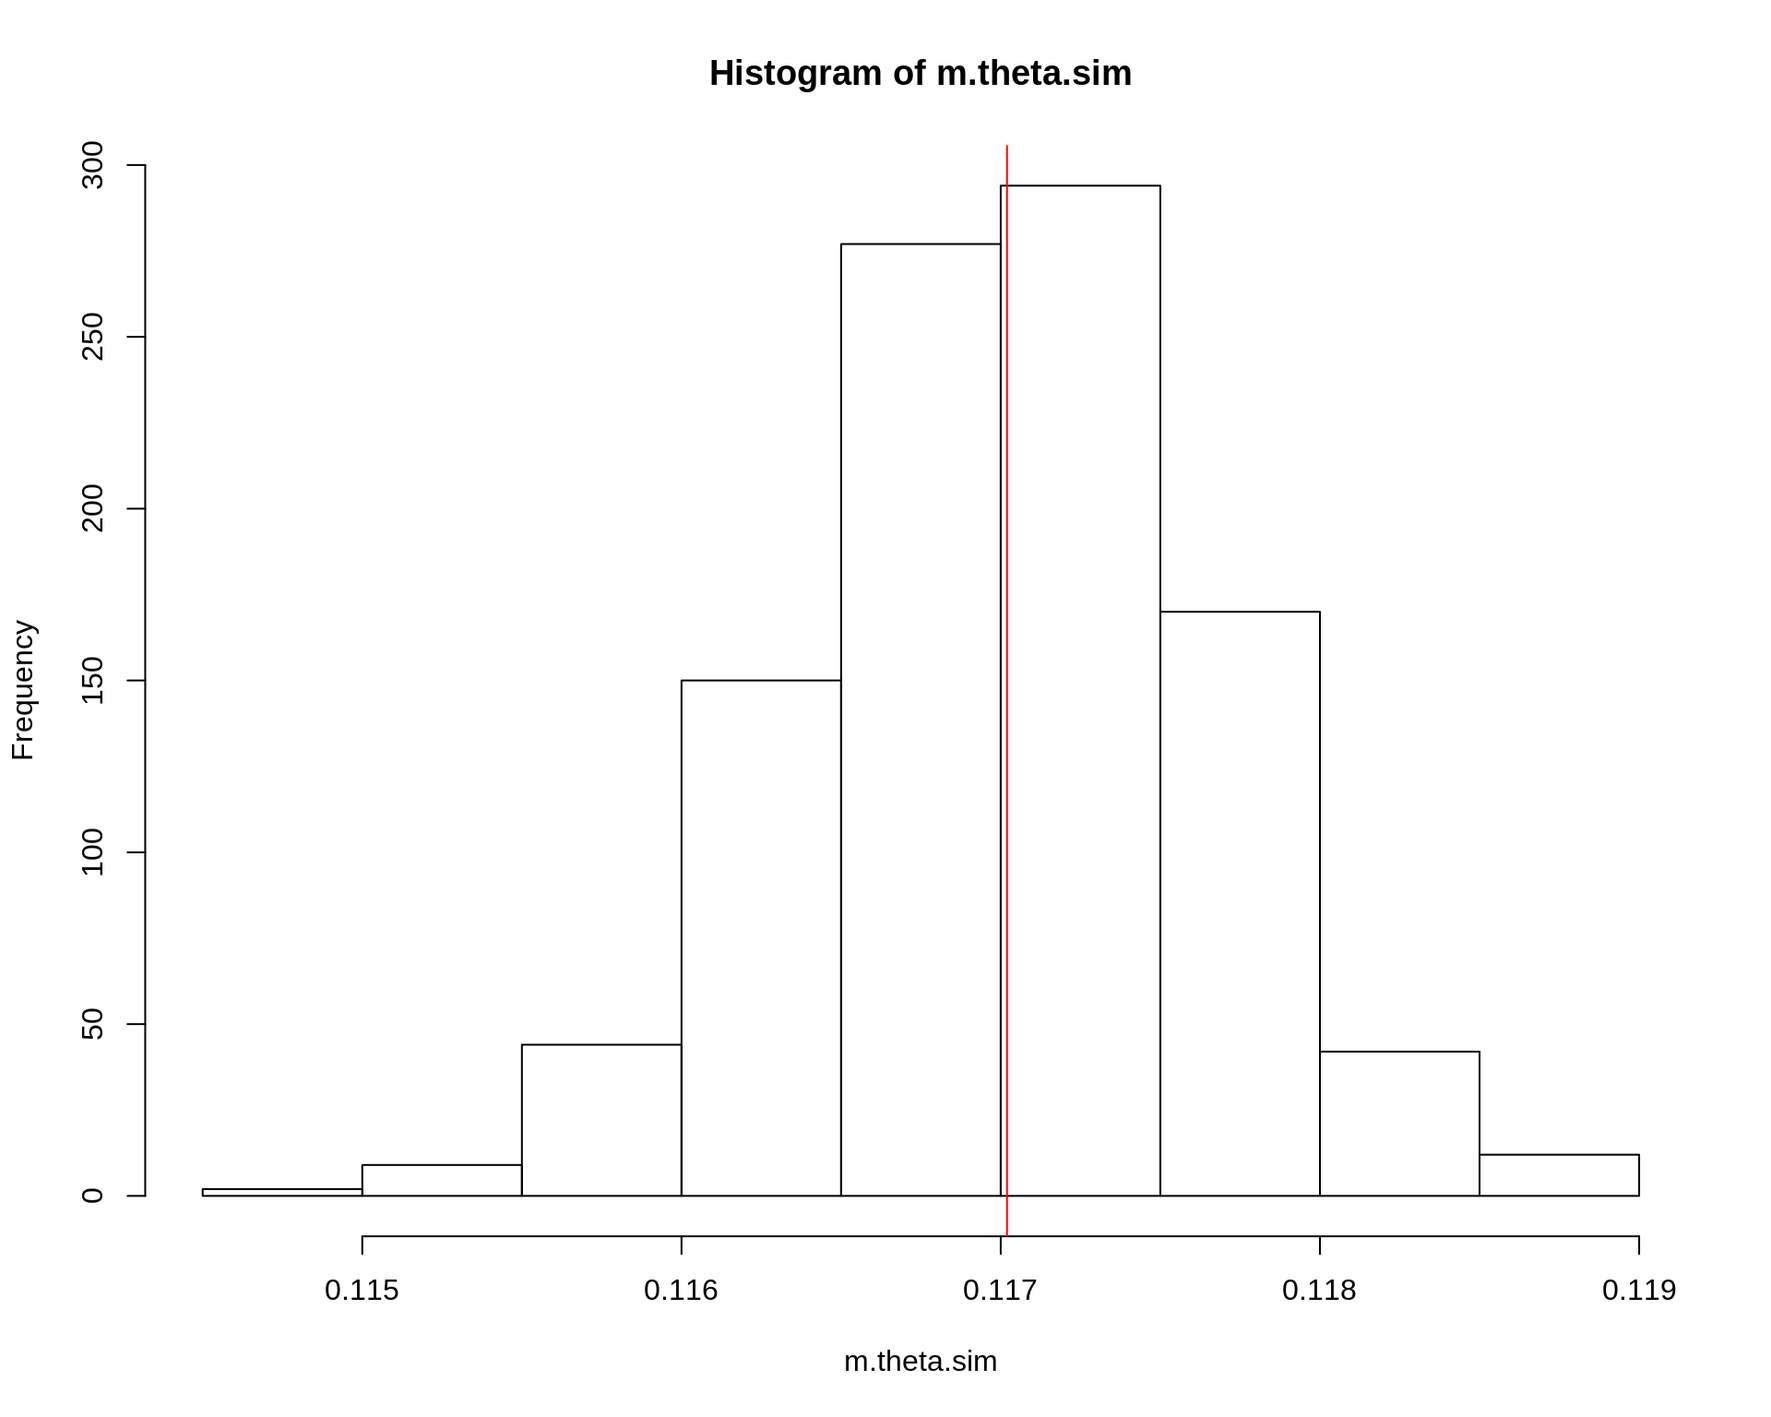
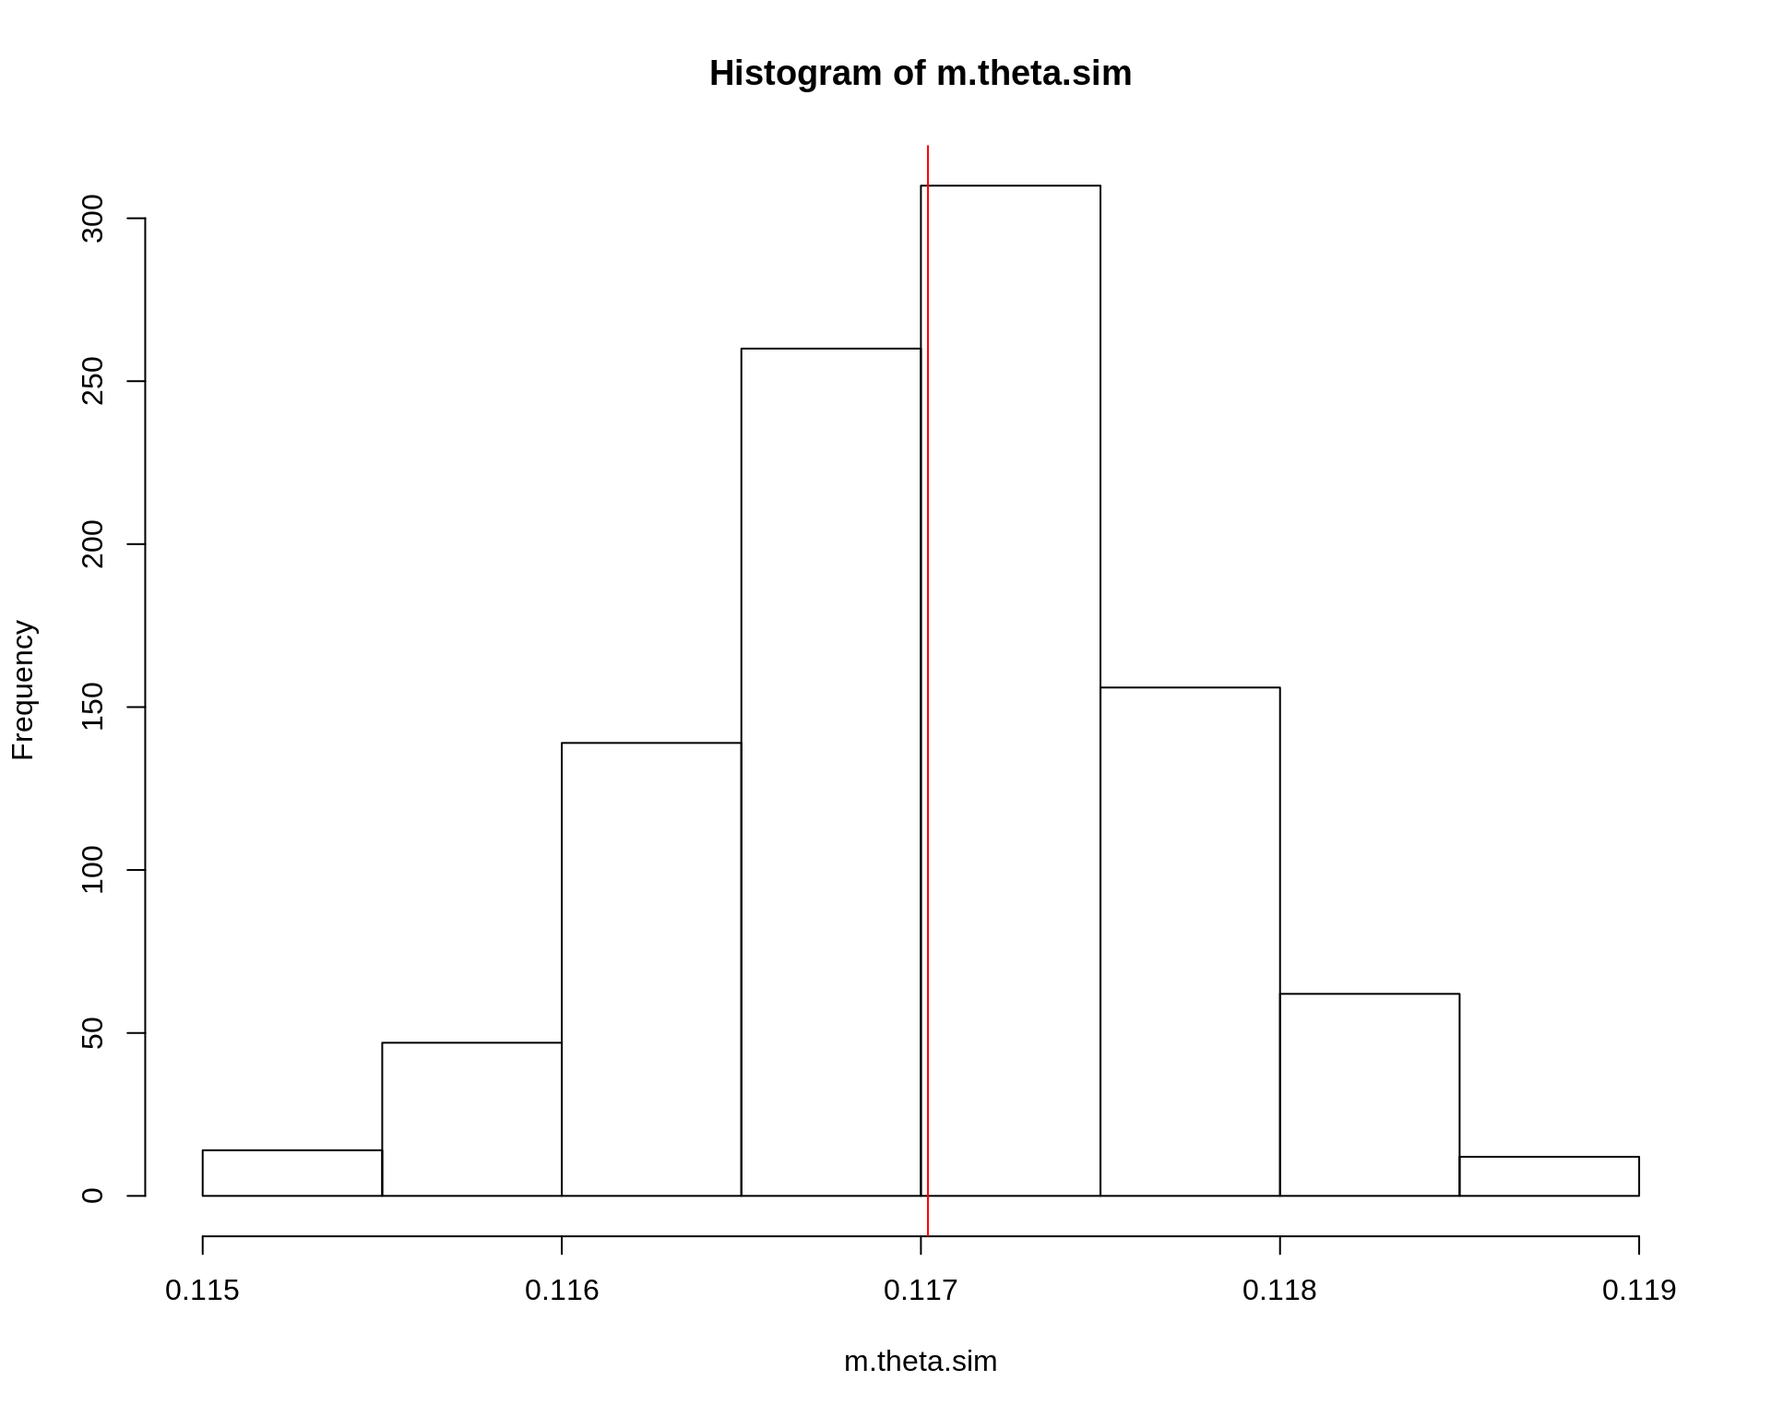
The site is alive.

diff --git a/MC_intro.html b/MC_intro.html
@@ -519,8 +519,11 @@ h(x) = g(x)f(x)
 <p><strong>Note então que, na integração de Monte Carlo, trocamos um problema de resolver uma integral por um problema de calcular uma média (por simulação).</strong></p>
 <div id="integração-simples-de-monte-carlo" class="section level2">
 <h2><span class="header-section-number">2.1</span> Integração simples de Monte Carlo</h2>
-<p>Considere o problema de estimar <span class="math display">\[
-\theta = \int_0^1 g(x) dx.
+<p>Considere o problema de estimar <span class="math display">\[\begin{align*}
+\theta &amp;= \int_0^1 h(x) dx \\
+  &amp;= \int_0^1 g(x)f(x) dx
+\end{align*}\]</span> Nesse caso, podemos assumir que <span class="math inline">\(f(x)\)</span> é a densidade de uma distribuição uniforme <span class="math inline">\(\text{U}(0,1)\)</span>, portanto <span class="math inline">\(f(x) = 1\)</span>, e consequentemente a integral simplifica para <span class="math display">\[
+\theta = \int_0^1 g(x) dx
 \]</span> Se <span class="math inline">\(X_1, \ldots, X_m\)</span> é uma amostra aleatória de <span class="math inline">\(U(0,1)\)</span>, então <span class="math display">\[
 \hat\theta = \frac{1}{m} \sum_{i=1}^{m} g(x_i)
 \]</span> Pode-se mostrar que <span class="math inline">\(\hat\theta\)</span> converge para <span class="math inline">\(\text{E}[\hat\theta] = \theta\)</span> quando <span class="math inline">\(m \to \infty\)</span> com probabilidade 1, pela <strong>Lei Forte dos Grandes Números</strong>.</p>
@@ -544,7 +547,7 @@ P(\lim_{n \to \infty} |\bar{X}_n - \mu| &lt; \epsilon) = 1
 <a class="sourceLine" id="cb1-5" title="5">theta.hat &lt;-<span class="st"> </span><span class="kw">exp</span>(<span class="op">-</span>x)</a>
 <a class="sourceLine" id="cb1-6" title="6"><span class="co">## Calcula a média</span></a>
 <a class="sourceLine" id="cb1-7" title="7">(m.theta.hat &lt;-<span class="st"> </span><span class="kw">sum</span>(theta.hat)<span class="op">/</span>m)</a>
-<a class="sourceLine" id="cb1-8" title="8"><span class="co"># [1] 0.6299673</span></a></code></pre></div>
+<a class="sourceLine" id="cb1-8" title="8"><span class="co"># [1] 0.6326337</span></a></code></pre></div>
 <p>Nesse caso, podemos obter a solução analítica e integração numérica no R para comparar as estimativas</p>
 <div class="sourceCode" id="cb2"><pre class="sourceCode r"><code class="sourceCode r"><a class="sourceLine" id="cb2-1" title="1"><span class="co">## Solução analítica</span></a>
 <a class="sourceLine" id="cb2-2" title="2">(theta &lt;-<span class="st"> </span><span class="dv">1</span> <span class="op">-</span><span class="st"> </span><span class="kw">exp</span>(<span class="op">-</span><span class="dv">1</span>))</a>
@@ -552,9 +555,12 @@ P(\lim_{n \to \infty} |\bar{X}_n - \mu| &lt; \epsilon) = 1
 <a class="sourceLine" id="cb2-4" title="4"><span class="co">## Integração numérica no R</span></a>
 <a class="sourceLine" id="cb2-5" title="5"><span class="kw">integrate</span>(<span class="cf">function</span>(x) <span class="kw">exp</span>(<span class="op">-</span>x), <span class="dt">lower =</span> <span class="dv">0</span>, <span class="dt">upper =</span> <span class="dv">1</span>)</a>
 <a class="sourceLine" id="cb2-6" title="6"><span class="co"># 0.6321206 with absolute error &lt; 7e-15</span></a></code></pre></div>
-<p>Um caso mais geral é estimar a integral do tipo <span class="math display">\[
-\theta = \int_a^b g(x) dx
-\]</span> Nesse caso, temos que substituir a <span class="math inline">\(U(0,1)\)</span> por alguma outra densidade com suporte no intervalo dos limites de integração. Por exemplo, se <span class="math inline">\(X \sim U(a,b)\)</span>, então <span class="math inline">\(f(x) = \frac{1}{b-a}\)</span> e</p>
+<p>Um caso mais geral é estimar a integral do tipo</p>
+<p><span class="math display">\[\begin{align*}
+\theta &amp;= \int_a^b h(x) dx \\
+  &amp;= \int_a^b g(x)f(x) dx
+\end{align*}\]</span></p>
+<p>Nesse caso, temos que substituir a <span class="math inline">\(U(0,1)\)</span>, assumida incialmente para <span class="math inline">\(f(x)\)</span>, por alguma outra densidade com suporte no intervalo dos limites de integração. Por exemplo, se <span class="math inline">\(X \sim U(a,b)\)</span>, então <span class="math inline">\(f(x) = \frac{1}{b-a}\)</span> e</p>
 <p><span class="math display">\[\begin{align*}
 \theta &amp;= \int_a^b g(x) f(x) dx \\
   &amp;= (b-a) \int_a^b g(x) \frac{1}{b-a} dx \\
@@ -581,7 +587,7 @@ P(\lim_{n \to \infty} |\bar{X}_n - \mu| &lt; \epsilon) = 1
 <a class="sourceLine" id="cb3-6" title="6">theta.hat &lt;-<span class="st"> </span><span class="kw">exp</span>(<span class="op">-</span>x)</a>
 <a class="sourceLine" id="cb3-7" title="7"><span class="co">## Calcula a média * (b - a)</span></a>
 <a class="sourceLine" id="cb3-8" title="8">(m.theta.hat &lt;-<span class="st"> </span>(<span class="kw">sum</span>(theta.hat)<span class="op">/</span>m) <span class="op">*</span><span class="st"> </span>(b <span class="op">-</span><span class="st"> </span>a))</a>
-<a class="sourceLine" id="cb3-9" title="9"><span class="co"># [1] 0.117643</span></a></code></pre></div>
+<a class="sourceLine" id="cb3-9" title="9"><span class="co"># [1] 0.1169386</span></a></code></pre></div>
 <p>Nesse caso, podemos obter a solução analítica e integração numérica no R para comparar as estimativas</p>
 <div class="sourceCode" id="cb4"><pre class="sourceCode r"><code class="sourceCode r"><a class="sourceLine" id="cb4-1" title="1"><span class="co">## Solução analítica</span></a>
 <a class="sourceLine" id="cb4-2" title="2">(theta &lt;-<span class="st"> </span><span class="kw">exp</span>(<span class="op">-</span><span class="dv">2</span>) <span class="op">-</span><span class="st"> </span><span class="kw">exp</span>(<span class="op">-</span><span class="dv">4</span>))</a>
@@ -602,7 +608,7 @@ P[X&gt;2] = \int_2^{\infty} e^{-x} dx
 <a class="sourceLine" id="cb5-5" title="5">theta.hat2 &lt;-<span class="st"> </span><span class="kw">exp</span>(<span class="op">-</span>x2)</a>
 <a class="sourceLine" id="cb5-6" title="6"><span class="co">## Calcula a média * (b - a)</span></a>
 <a class="sourceLine" id="cb5-7" title="7">(m.theta.hat2 &lt;-<span class="st"> </span>(<span class="kw">sum</span>(theta.hat2)<span class="op">/</span>m) <span class="op">*</span><span class="st"> </span>(<span class="fl">1e5</span> <span class="op">-</span><span class="st"> </span><span class="dv">2</span>))</a>
-<a class="sourceLine" id="cb5-8" title="8"><span class="co"># [1] 2.13334e-11</span></a>
+<a class="sourceLine" id="cb5-8" title="8"><span class="co"># [1] 1.8783e-08</span></a>
 <a class="sourceLine" id="cb5-9" title="9"><span class="co">## Solução analítica</span></a>
 <a class="sourceLine" id="cb5-10" title="10">(theta2 &lt;-<span class="st"> </span><span class="kw">exp</span>(<span class="op">-</span><span class="dv">2</span>) <span class="op">-</span><span class="st"> </span><span class="kw">exp</span>(<span class="op">-</span><span class="fl">1e5</span>))</a>
 <a class="sourceLine" id="cb5-11" title="11"><span class="co"># [1] 0.1353353</span></a>
@@ -623,17 +629,17 @@ P[X&gt;2] = \int_2^{\infty} e^{-x} dx
 \]</span></p>
 <p>Seguindo o exemplo anterior, vimos que a estimativa da integral é</p>
 <div class="sourceCode" id="cb6"><pre class="sourceCode r"><code class="sourceCode r"><a class="sourceLine" id="cb6-1" title="1">m.theta.hat</a>
-<a class="sourceLine" id="cb6-2" title="2"><span class="co"># [1] 0.117643</span></a></code></pre></div>
+<a class="sourceLine" id="cb6-2" title="2"><span class="co"># [1] 0.1169386</span></a></code></pre></div>
 <p>Mas veja que existe uma distribuição de valores para compor esta estimativa média</p>
 <div class="sourceCode" id="cb7"><pre class="sourceCode r"><code class="sourceCode r"><a class="sourceLine" id="cb7-1" title="1"><span class="kw">hist</span>(theta.hat); <span class="kw">abline</span>(<span class="dt">v =</span> theta, <span class="dt">col =</span> <span class="dv">2</span>)</a></code></pre></div>
 <p><img src="figures/MC_intro/unnamed-chunk-9-1.png" width="80%" style="display: block; margin: auto;" /></p>
 <p>A variância relacionada ao estimador pode então ser calculada como</p>
 <div class="sourceCode" id="cb8"><pre class="sourceCode r"><code class="sourceCode r"><a class="sourceLine" id="cb8-1" title="1"><span class="co">## Variancia</span></a>
 <a class="sourceLine" id="cb8-2" title="2">(v.theta.hat &lt;-<span class="st"> </span><span class="kw">sum</span>((theta.hat <span class="op">-</span><span class="st"> </span>m.theta.hat)<span class="op">^</span><span class="dv">2</span>)<span class="op">/</span>m<span class="op">^</span><span class="dv">2</span>)</a>
-<a class="sourceLine" id="cb8-3" title="3"><span class="co"># [1] 4.537298e-07</span></a>
+<a class="sourceLine" id="cb8-3" title="3"><span class="co"># [1] 4.490695e-07</span></a>
 <a class="sourceLine" id="cb8-4" title="4"><span class="co">## Erro padrão</span></a>
 <a class="sourceLine" id="cb8-5" title="5">(se.theta.hat &lt;-<span class="st"> </span><span class="kw">sqrt</span>(v.theta.hat))</a>
-<a class="sourceLine" id="cb8-6" title="6"><span class="co"># [1] 0.0006735946</span></a></code></pre></div>
+<a class="sourceLine" id="cb8-6" title="6"><span class="co"># [1] 0.0006701265</span></a></code></pre></div>
 <p>Pelo Teorema do Limite Central, temos que</p>
 <p><span class="math display">\[
 \frac{\hat\theta - \text{E}(\hat\theta)}{\sqrt{\hat{V}(\hat\theta)}}
@@ -647,10 +653,10 @@ P[X&gt;2] = \int_2^{\infty} e^{-x} dx
 <p>Com esse resultado, podemos inclusive fornecer um intervalo de confiança associado à nossa estimativa</p>
 <div class="sourceCode" id="cb10"><pre class="sourceCode r"><code class="sourceCode r"><a class="sourceLine" id="cb10-1" title="1"><span class="co">## Media e veriancia</span></a>
 <a class="sourceLine" id="cb10-2" title="2"><span class="kw">c</span>(m.theta.hat, v.theta.hat)</a>
-<a class="sourceLine" id="cb10-3" title="3"><span class="co"># [1] 1.176430e-01 4.537298e-07</span></a>
+<a class="sourceLine" id="cb10-3" title="3"><span class="co"># [1] 1.169386e-01 4.490695e-07</span></a>
 <a class="sourceLine" id="cb10-4" title="4"><span class="co">## Intervalo de confiança (95%)</span></a>
 <a class="sourceLine" id="cb10-5" title="5"><span class="kw">c</span>(m.theta.hat <span class="op">-</span><span class="st"> </span><span class="fl">1.96</span> <span class="op">*</span><span class="st"> </span>se.theta.hat, m.theta.hat <span class="op">+</span><span class="st"> </span><span class="fl">1.96</span> <span class="op">*</span><span class="st"> </span>se.theta.hat)</a>
-<a class="sourceLine" id="cb10-6" title="6"><span class="co"># [1] 0.1163228 0.1189633</span></a></code></pre></div>
+<a class="sourceLine" id="cb10-6" title="6"><span class="co"># [1] 0.1156251 0.1182520</span></a></code></pre></div>
 <p>Veja que assintoticamente, i.e., conforme aumentamos o tamanho da amostra, o valor da integral se aproxima cada vez mais do valor verdadeiro (que nesse caso sabemos calcular analiticamente, apenas para comparação).</p>
 <div class="sourceCode" id="cb11"><pre class="sourceCode r"><code class="sourceCode r"><a class="sourceLine" id="cb11-1" title="1"><span class="co">## Simula a convergência para o verdadeiro valor conforme aumenta o</span></a>
 <a class="sourceLine" id="cb11-2" title="2"><span class="co">## tamanho da amostra</span></a>
@@ -776,18 +782,20 @@ f_4(x) &amp;= 4(1-x^2)^{-1}/\pi, \quad 0&lt;x&lt;1 \\
 <a class="sourceLine" id="cb13-34" title="34">theta.hat[<span class="dv">5</span>] &lt;-<span class="st"> </span><span class="kw">mean</span>(fg)</a>
 <a class="sourceLine" id="cb13-35" title="35">se[<span class="dv">5</span>] &lt;-<span class="st"> </span><span class="kw">sd</span>(fg)</a></code></pre></div>
 <p>Os resultados das estimativas com seus erros-padrões são</p>
-<div class="sourceCode" id="cb14"><pre class="sourceCode r"><code class="sourceCode r"><a class="sourceLine" id="cb14-1" title="1"><span class="kw">rbind</span>(theta.hat, se<span class="op">/</span><span class="kw">sqrt</span>(m))</a>
-<a class="sourceLine" id="cb14-2" title="2"><span class="co">#                  [,1]       [,2]        [,3]         [,4]        [,5]</span></a>
-<a class="sourceLine" id="cb14-3" title="3"><span class="co"># theta.hat 0.525261009 0.52980810 0.539874509 0.5250382027 0.525325250</span></a>
-<a class="sourceLine" id="cb14-4" title="4"><span class="co">#           0.002447843 0.00418581 0.009629678 0.0009686918 0.001408793</span></a></code></pre></div>
-<p>Os resultados indicam que <span class="math inline">\(f_3\)</span>, e possivelmente <span class="math inline">\(f_4\)</span> produzem as menores variâncias entre as funções propostas, enquanto que <span class="math inline">\(f_2\)</span> possui a maior variância. Note que <span class="math inline">\(f_0\)</span>, a uniforme, possui erro padrão maior.</p>
+<div class="sourceCode" id="cb14"><pre class="sourceCode r"><code class="sourceCode r"><a class="sourceLine" id="cb14-1" title="1"><span class="kw">matrix</span>(<span class="kw">rbind</span>(theta.hat, se<span class="op">/</span><span class="kw">sqrt</span>(m)), <span class="dt">nrow =</span> <span class="dv">2</span>,</a>
+<a class="sourceLine" id="cb14-2" title="2">       <span class="dt">dimnames =</span> <span class="kw">list</span>(<span class="kw">c</span>(<span class="st">&quot;theta&quot;</span>, <span class="st">&quot;se(theta)&quot;</span>), <span class="kw">paste0</span>(<span class="st">&quot;f&quot;</span>, <span class="dv">0</span><span class="op">:</span><span class="dv">4</span>)))</a>
+<a class="sourceLine" id="cb14-3" title="3"><span class="co">#                    f0         f1          f2           f3          f4</span></a>
+<a class="sourceLine" id="cb14-4" title="4"><span class="co"># theta     0.525261009 0.52980810 0.539874509 0.5250382027 0.525325250</span></a>
+<a class="sourceLine" id="cb14-5" title="5"><span class="co"># se(theta) 0.002447843 0.00418581 0.009629678 0.0009686918 0.001408793</span></a></code></pre></div>
+<p>Os resultados indicam que <span class="math inline">\(f_3\)</span>, e possivelmente <span class="math inline">\(f_4\)</span> produzem as menores variâncias entre as funções propostas, enquanto que <span class="math inline">\(f_2\)</span> possui a maior variância. Note que <span class="math inline">\(f_0\)</span>, a uniforme, possui erro padrão maior do que <span class="math inline">\(f_3\)</span>, por exemplo, o que indica que a variância do estimador foi reduzida em relação ao método simples de Monte Carlo.</p>
 <p>Esse exemplo mostra que a função de importância que resulta na menor variância de <span class="math inline">\(Y = g(X)/f(X)\)</span> deve ser escolhida com cuidado.</p>
 <p>Voltando brevemente ao caso da exponencial, pela amostragem por importância, podemos agora obter uma estimativa de <span class="math inline">\(P[X &gt; 2]\)</span>, <span class="math display">\[
 P[X&gt;2] = \int_2^{\infty} e^{-x} dx
 \]</span> caso que não conseguimos usando a integração simples de Monte Carlo.</p>
 <p>Suponha que a função de importância é uma <span class="math inline">\(\text{Exp}(0.5)\)</span>. Portanto, temos o seguinte cenário</p>
 <div class="sourceCode" id="cb15"><pre class="sourceCode r"><code class="sourceCode r"><a class="sourceLine" id="cb15-1" title="1"><span class="kw">curve</span>(dexp, <span class="dt">from =</span> <span class="dv">0</span>, <span class="dt">to =</span> <span class="dv">10</span>)</a>
-<a class="sourceLine" id="cb15-2" title="2"><span class="kw">curve</span>(<span class="kw">dexp</span>(x, <span class="fl">0.5</span>), <span class="dt">from =</span> <span class="dv">0</span>, <span class="dt">to =</span> <span class="dv">10</span>, <span class="dt">add =</span> <span class="ot">TRUE</span>, <span class="dt">col =</span> <span class="dv">2</span>)</a></code></pre></div>
+<a class="sourceLine" id="cb15-2" title="2"><span class="kw">curve</span>(<span class="kw">dexp</span>(x, <span class="fl">0.5</span>), <span class="dt">from =</span> <span class="dv">0</span>, <span class="dt">to =</span> <span class="dv">10</span>, <span class="dt">add =</span> <span class="ot">TRUE</span>, <span class="dt">col =</span> <span class="dv">2</span>)</a>
+<a class="sourceLine" id="cb15-3" title="3"><span class="kw">legend</span>(<span class="st">&quot;topright&quot;</span>, <span class="kw">c</span>(<span class="st">&quot;g&quot;</span>, <span class="st">&quot;f&quot;</span>), <span class="dt">lty =</span> <span class="dv">1</span>, <span class="dt">col =</span> <span class="dv">1</span><span class="op">:</span><span class="dv">2</span>, <span class="dt">bty =</span> <span class="st">&quot;n&quot;</span>)</a></code></pre></div>
 <p><img src="figures/MC_intro/unnamed-chunk-18-1.png" width="80%" style="display: block; margin: auto;" /></p>
 <p>Assim, podemos calcular a integral indefinida da seguinte forma:</p>
 <div class="sourceCode" id="cb16"><pre class="sourceCode r"><code class="sourceCode r"><a class="sourceLine" id="cb16-1" title="1"><span class="co">## Define funções</span></a>
@@ -801,7 +809,9 @@ P[X&gt;2] = \int_2^{\infty} e^{-x} dx
 <a class="sourceLine" id="cb16-9" title="9"><span class="co"># [1] 0.1348286</span></a>
 <a class="sourceLine" id="cb16-10" title="10"><span class="co">## Teórico</span></a>
 <a class="sourceLine" id="cb16-11" title="11"><span class="kw">pexp</span>(<span class="dv">2</span>, <span class="dv">1</span>, <span class="dt">lower.tail =</span> <span class="ot">FALSE</span>)</a>
-<a class="sourceLine" id="cb16-12" title="12"><span class="co"># [1] 0.1353353</span></a></code></pre></div>
+<a class="sourceLine" id="cb16-12" title="12"><span class="co"># [1] 0.1353353</span></a>
+<a class="sourceLine" id="cb16-13" title="13"><span class="kw">integrate</span>(<span class="cf">function</span>(x) <span class="kw">exp</span>(<span class="op">-</span>x), <span class="dv">2</span>, <span class="ot">Inf</span>)</a>
+<a class="sourceLine" id="cb16-14" title="14"><span class="co"># 0.1353353 with absolute error &lt; 7.7e-06</span></a></code></pre></div>
 </div>
 </div>
 

diff --git a/aulas.html b/aulas.html
@@ -335,7 +335,7 @@ $(document).ready(function () {
 <li><strong>08/10 (Ter)</strong>: (PJ) Após obter a posteriori: introdução à decisão, preditiva e aproximação quadrática</li>
 <li><strong>10/10 (Qui)</strong>: (PJ) Decisão bayesiana. Resumos da posteriori. (Cap 5)</li>
 <li><strong>15/10 (Ter)</strong>: (PJ) Predição - obtenção da distribuição preditiva (Cap 6)</li>
-<li><strong>17/10 (Qui)</strong>: <a href="MC_intro.html">HTML</a></li>
+<li><strong>17/10 (Qui)</strong>: (FM) Integração de Monte Carlo: método simples e amostragem por importância. <a href="MC_intro.html">HTML</a>.</li>
 <li><strong>22/10 (Ter)</strong>:</li>
 <li><strong>24/10 (Qui)</strong>:</li>
 <li><strong>29/10 (Ter)</strong>:</li>
